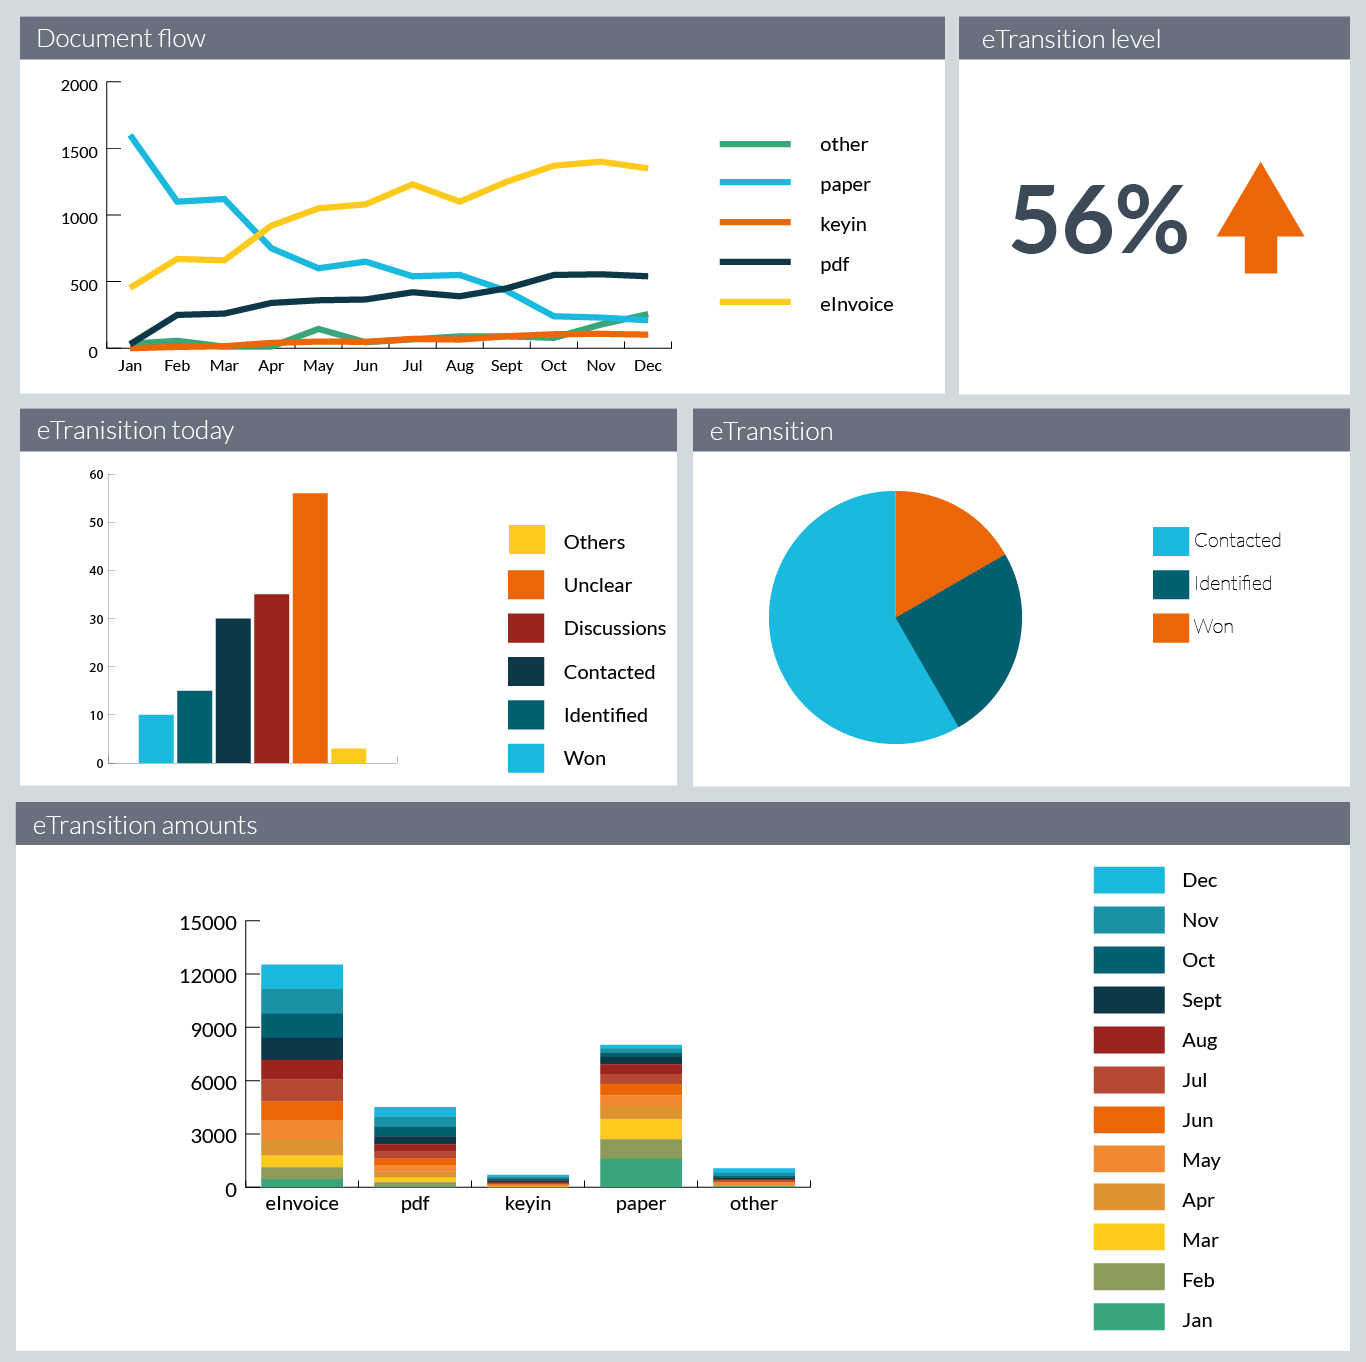
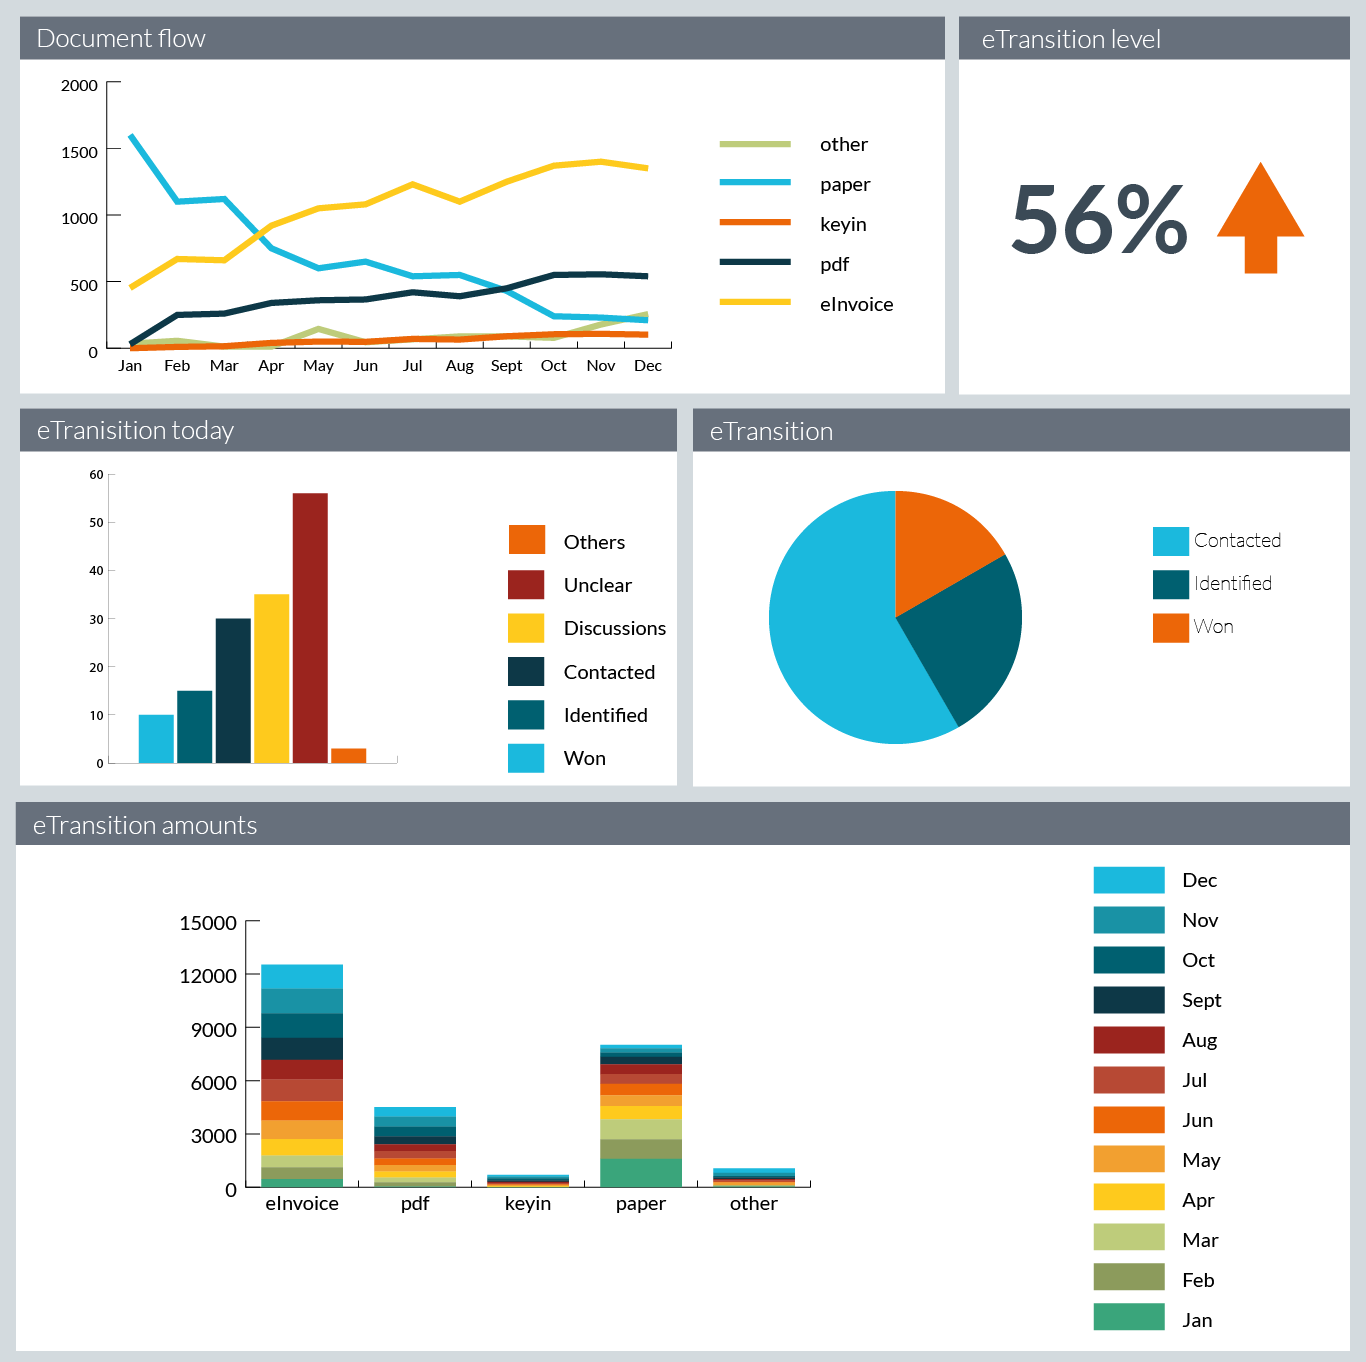
More color definitions added to Brand page.

diff --git a/ocui/brand.html b/ocui/brand.html
@@ -66,11 +66,19 @@
                         <!--Logo usage-->
                         <section>
                             <h2>OpusCapita Logo Usage</h2>
-                            	<p>White logo color is preferred when it is on top of the background color. If background are is white, the logo is displayed in orange. Logo may be used in minimized mode only in case there is no option to use the larger logo. </p>
+                            	<p>If background are is white, the logo is displayed in orange. White logo color is preferred when it is on top of the background color. Logo may be used in minimized mode only in case there is no option to use the larger logo. </p>
                             <h3>Logo</h3>
-                            <h3>Minimized logo</h3>
-                            <h3>Logo for favicon</h3>
+                            	<p>Logo in white background</p>
+								<img src="images/OC-logo-orange-extended.png" />
+                         		<p>Logo in colored background</p>
+								<img src="images/OC-logo-white-extended.png" />
+                          	<h3>Minimized logo</h3>
+                            	<img src="images/OC-logo-orange-minimised.png" />
                             <h3>Logo safety margins</h3>
+                            	<img src="images/OC-logo-safety-margins-orange-extended.png" /><br>
+                            	<img src="images/OC-logo-safety-margins-orange-minimised.png" />
+                            <h3>Logo for favicon</h3>
+                            	<img src="images/favicon.ico" />
                         </section>
                             
                         <!--Colors-->
@@ -82,12 +90,62 @@
                             <h3>Basic colors</h3>
                             	<h4>Main brand color</h4>
                             		<p>
-                                		The main brand color should be used thoughtfully.
+                                		The main brand color should not be used too much and preferable as a highlight color instead of in large elements.
+                                			<div class="oc-color-container">
+                                    		<div class="oc-circle" style="background-color: rgb(236, 102, 8);"></div>
+                            					<div class="oc-color-info">
+                                				<div class="oc-color-info-name">Orange</div>
+                                				<div class="oc-color-info-hex">#EC6608</div>
+                                				<div class="oc-color-info-rgb">R0 G96 B112</div>
+                            				</div>
+											</div>
                             		</p>
-                            	<h4>Navigation bar</h4>
-                            	<h4>Icons on .... background</h4>
-                            	<h4>Icons on white background</h4>
+                            	<h4>Navigation bar colors</h4>
+                            				<div class="oc-color-container">
+                                    		<div class="oc-circle" style="background-color: rgb(59, 74, 86);"></div>
+                            					<div class="oc-color-info">
+                                				<div class="oc-color-info-name">Dark steel</div>
+                                				<div class="oc-color-info-hex">#3B4A56</div>
+                                				<div class="oc-color-info-rgb">R59 G74 B86</div>
+                            				</div>
+											</div>
+                           	
+                           					<div class="oc-color-container">
+                                    		<div class="oc-circle" style="background-color: rgb(211, 218, 222);"></div>
+                            					<div class="oc-color-info">
+                                				<div class="oc-color-info-name">Light gray</div>
+                                				<div class="oc-color-info-hex">#D3DADE</div>
+                                				<div class="oc-color-info-rgb">R211 G218 B222</div>
+                            				</div>
+											</div>
+                            	<h4>Icons on Dark steel background</h4>
+                            				<div class="oc-color-container">
+                                    		<div class="oc-circle" style="background-color: rgb(211, 218, 222);"></div>
+                            					<div class="oc-color-info">
+                                				<div class="oc-color-info-name">Light gray</div>
+                                				<div class="oc-color-info-hex">#D3DADE</div>
+                                				<div class="oc-color-info-rgb">R211 G218 B222</div>
+                            				</div>
+											</div>
+                            	<h4>Icons on White or Light gray background</h4>
+                            				<div class="oc-color-container">
+                                    		<div class="oc-circle" style="background-color: rgb(103, 112, 124);"></div>
+                            					<div class="oc-color-info">
+                                				<div class="oc-color-info-name">Steel</div>
+                                				<div class="oc-color-info-hex">#67707C</div>
+                                				<div class="oc-color-info-rgb">R103 G112 B124</div>
+                            				</div>
+											</div>                            	
+                           
                             	<h4>Gray background</h4>
+                            				<div class="oc-color-container">
+                                    		<div class="oc-circle" style="background-color: rgb(211, 218, 222);"></div>
+                            					<div class="oc-color-info">
+                                				<div class="oc-color-info-name">Light gray</div>
+                                				<div class="oc-color-info-hex">#D3DADE</div>
+                                				<div class="oc-color-info-rgb">R211 G218 B222</div>
+                            				</div>
+											</div>
                             <h3>Colors in priority order for graphs with maximum of 5 colors.</h3>
                             
                             <div class="oc-colors-container">
@@ -128,11 +186,11 @@
 									</div>
                            
                            			<div class="oc-color-container">
-                                    	<div class="oc-circle" style="background-color: rgb(58, 165, 123);"></div>
+                                    	<div class="oc-circle" style="background-color: rgb(190, 204, 123);"></div>
                             			<div class="oc-color-info">
-                                			<div class="oc-color-info-name">Cyan</div>
-                                			<div class="oc-color-info-hex">#3AA57B</div>
-                                			<div class="oc-color-info-rgb">R58 G165 B123</div>
+                                			<div class="oc-color-info-name">Light green</div>
+                                			<div class="oc-color-info-hex">#BECC32</div>
+                                			<div class="oc-color-info-rgb">R190 G204 B123</div>
                             			</div>
 									</div>
                            
@@ -196,11 +254,11 @@
 									</div>
                           
                           			<div class="oc-color-container">
-                                    	<div class="oc-circle" style="background-color: rgb(140, 155, 92);"></div>
+                                    	<div class="oc-circle" style="background-color: rgb(190, 204, 123);"></div>
                             			<div class="oc-color-info">
-                                			<div class="oc-color-info-name">Olive</div>
-                                			<div class="oc-color-info-hex">#8C9B5C</div>
-                                			<div class="oc-color-info-rgb">R140 G155 B92</div>
+                                			<div class="oc-color-info-name">Light green</div>
+                                			<div class="oc-color-info-hex">#BECC7B</div>
+                                			<div class="oc-color-info-rgb">R190 G204 B123</div>
                             			</div>
 									</div>
                            
@@ -216,120 +274,131 @@
                             </div>
                             
                             <h3>Colors in priority order for graphs with maximum of 12 colors.</h3>
-                            <h3>Colors in graphs - example image.</h3>
-                            	<img src="images/graphColorsExample.png" />
-                            <h3>Primary colors for graphs</h3>
+                             <p>
+                                It is not recommended to include more than 12 elements to a graph in order to maintain readability.
+                            </p>
+                            
                             <div class="oc-colors-container">
                                 <div class="oc-color-container">
-                                    <div class="oc-circle" style="background-color: rgb(236, 102, 8);"></div>
-                            <div class="oc-color-info">
-                                <div class="oc-color-info-name">Orange</div>
-                                <div class="oc-color-info-hex">#EC6608</div>
-                                <div class="oc-color-info-rgb">R236 G102 B8</div>
+                                    <div class="oc-circle" style="background-color: rgb(27, 185, 221);"></div>
+                            		<div class="oc-color-info">
+                                		<div class="oc-color-info-name">Aqua</div>
+                                		<div class="oc-color-info-hex">#1BB9DD</div>
+                                		<div class="oc-color-info-rgb">R27 G185 B221</div>
+                            		</div>
+								</div>
+                         		
+                         	<div class="oc-color-container">
+                                  <div class="oc-circle" style="background-color: rgb(25, 146, 165);"></div>
+                            		<div class="oc-color-info">
+                                		<div class="oc-color-info-name">Teal</div>
+                                		<div class="oc-color-info-hex">#1992A5</div>
+                                		<div class="oc-color-info-rgb">R25 G146 B165</div>
+                            		</div>
+							</div>
+                          		
+                           		<div class="oc-color-container">
+                                    <div class="oc-circle" style="background-color: rgb(0, 96, 112);"></div>
+                            		<div class="oc-color-info">
+                                		<div class="oc-color-info-name">Petrol</div>
+                                		<div class="oc-color-info-hex">#006070</div>
+                                		<div class="oc-color-info-rgb">R0 G96 B112</div>
+                            		</div>
+								</div>
+                         		
+                         		<div class="oc-color-container">
+                                    <div class="oc-circle" style="background-color: rgb(13, 56, 71);"></div>
+                            		<div class="oc-color-info">
+                                		<div class="oc-color-info-name">Dark petrol</div>
+                                		<div class="oc-color-info-hex">#0D3847</div>
+                                		<div class="oc-color-info-rgb">R13 G56 B71</div>
+                            		</div>
+								</div>
+                         		
+                         		<div class="oc-color-container">
+                                    <div class="oc-circle" style="background-color: rgb(155, 36, 30);"></div>
+                            		<div class="oc-color-info">
+                                		<div class="oc-color-info-name">Dark red</div>
+                                		<div class="oc-color-info-hex">#9B241E</div>
+                                		<div class="oc-color-info-rgb">R155 G36 B30</div>
+                            		</div>
+								</div>
+                         		
+                         		<div class="oc-color-container">
+                                    <div class="oc-circle" style="background-color: rgb(183, 73, 52);"></div>
+                            		<div class="oc-color-info">
+                                		<div class="oc-color-info-name">Sienna</div>
+                                		<div class="oc-color-info-hex">#B74934</div>
+                                		<div class="oc-color-info-rgb">R183 G73 B52</div>
+                            		</div>
+								</div>
+                          		
+                           		<div class="oc-color-container">
+                                   	<div class="oc-circle" style="background-color: rgb(236, 102, 8);"></div>
+                            		<div class="oc-color-info">
+                                		<div class="oc-color-info-name">Orange</div>
+                               			<div class="oc-color-info-hex">#EC6608</div>
+                               			<div class="oc-color-info-rgb">R236 G102 B8</div>
+                           			</div>
+                           			
+								</div>
+                          
+                          			<div class="oc-color-container">
+                                   	<div class="oc-circle" style="background-color: rgb(242, 160, 48);"></div>
+                            		<div class="oc-color-info">
+                                		<div class="oc-color-info-name">Coral</div>
+                               			<div class="oc-color-info-hex">#F2A030</div>
+                               			<div class="oc-color-info-rgb">R242 G160 B48</div>
+                           			</div>
+								</div>
+                           
+                           			<div class="oc-color-container">
+                                    	<div class="oc-circle" style="background-color: rgb(254, 202, 29);"></div>
+                            			<div class="oc-color-info">
+                                			<div class="oc-color-info-name">Yellow</div>
+                                			<div class="oc-color-info-hex">#FECA1D</div>
+                                			<div class="oc-color-info-rgb">R254 G202 B29</div>
+                            			</div>
+									</div>
+                         
+                         			<div class="oc-color-container">
+                                    	<div class="oc-circle" style="background-color: rgb(190, 204, 123);"></div>
+                            			<div class="oc-color-info">
+                                			<div class="oc-color-info-name">Light green</div>
+                                			<div class="oc-color-info-hex">#BECC7B</div>
+                                			<div class="oc-color-info-rgb">R190 G204 B123</div>
+                            			</div>
+									</div>
+                          
+                          			<div class="oc-color-container">
+                                    	<div class="oc-circle" style="background-color: rgb(140, 155, 92);"></div>
+                            			<div class="oc-color-info">
+                                			<div class="oc-color-info-name">Olive</div>
+                                			<div class="oc-color-info-hex">#8C9B5C</div>
+                                			<div class="oc-color-info-rgb">R140 G155 B92</div>
+                            			</div>
+									</div>
+                           
+                          				<div class="oc-color-container">
+                                    	<div class="oc-circle" style="background-color: rgb(58, 165, 123);"></div>
+                            			<div class="oc-color-info">
+                                			<div class="oc-color-info-name">Cyan</div>
+                                			<div class="oc-color-info-hex">#8C9B5C</div>
+                                			<div class="oc-color-info-rgb">R58 G165 B123</div>
+                            			</div>
+									</div>
+                           			
+                           
                             </div>
-                            </div>
-                            <div class="oc-color-container">
-                                <div class="oc-circle" style="background-color: rgb(254, 202, 29);"></div>
-                            <div class="oc-color-info">
-                                <div class="oc-color-info-name">Yellow</div>
-                                <div class="oc-color-info-hex">#FECA1D</div>
-                                <div class="oc-color-info-rgb">R254 G202 B29</div>
-                            </div>
-                            </div>
-                            <div class="oc-color-container">
-                                <div class="oc-circle" style="background-color: rgb(103, 112, 124);"></div>
-                            <div class="oc-color-info">
-                                <div class="oc-color-info-name">Dark Gray</div>
-                                <div class="oc-color-info-hex">#67707C</div>
-                                <div class="oc-color-info-rgb">R103 G112 B124</div>
-                            </div>
-                            </div>
-                            <div class="oc-color-container">
-                                <div class="oc-circle" style="background-color: rgb(221, 37, 21);"></div>
-                            <div class="oc-color-info">
-                                <div class="oc-color-info-name">Red</div>
-                                <div class="oc-color-info-hex">#DD2515</div>
-                                <div class="oc-color-info-rgb">R221 G37 B21</div>
-                            </div>
-                            </div>
-                            <div class="oc-color-container">
-                                <div class="oc-circle" style="background-color: rgb(0, 0, 0);"></div>
-                            <div class="oc-color-info">
-                                <div class="oc-color-info-name">Black</div>
-                                <div class="oc-color-info-hex">#000000</div>
-                                <div class="oc-color-info-rgb">R0 G0 B0</div>
-                            </div>
-                            </div>
-                            <div class="oc-color-container">
-                                <div class="oc-circle" style="background-color: rgb(0, 96, 112);"></div>
-                            <div class="oc-color-info">
-                                <div class="oc-color-info-name">Petrol</div>
-                                <div class="oc-color-info-hex">#006070</div>
-                                <div class="oc-color-info-rgb">R0 G96 B112</div>
-                            </div>
-                            </div>
-                            </div>
-
-                            <h3>Additional colors</h3>
-                            <div class="oc-colors-container">
-                            <div class="oc-color-container">
-                                <div class="oc-circle" style="background-color: rgb(59, 74, 86);"></div>
-                            <div class="oc-color-info">
-                                <div class="oc-color-info-name">Dark Steel</div>
-                                <div class="oc-color-info-hex">#3B4A56</div>
-                                <div class="oc-color-info-rgb">R59 G74 B86</div>
-                            </div>
-                            </div>
-                            <div class="oc-color-container">
-                                <div class="oc-circle" style="background-color: rgb(204, 204, 204);"></div>
-                            <div class="oc-color-info">
-                                <div class="oc-color-info-name">Gray</div>
-                                <div class="oc-color-info-hex">#CCCCCC</div>
-                                <div class="oc-color-info-rgb">R204 G204 B204</div>
-                            </div>
-                            </div>
-                            <div class="oc-color-container">
-                                <div class="oc-circle" style="background-color: rgb(211, 218, 222);"></div>
-                            <div class="oc-color-info">
-                                <div class="oc-color-info-name">Light Gray</div>
-                                <div class="oc-color-info-hex">#D3DADE</div>
-                                <div class="oc-color-info-rgb">R211 G218 B222</div>
-                            </div>
-                            </div>
-                            <div class="oc-color-container">
-                                <div class="oc-circle" style="background-color: rgb(58, 165, 123);"></div>
-                            <div class="oc-color-info">
-                                <div class="oc-color-info-name">Green</div>
-                                <div class="oc-color-info-hex">#3AA57B</div>
-                                <div class="oc-color-info-rgb">R58 G165 B123</div>
-                            </div>
-                            </div>
-                            <div class="oc-color-container">
-                                <div class="oc-circle" style="background-color: rgb(22, 174, 214);"></div>
-                            <div class="oc-color-info">
-                                <div class="oc-color-info-name">Blue</div>
-                                <div class="oc-color-info-hex">#16AED6</div>
-                                <div class="oc-color-info-rgb">R22 G174 B214</div>
-                            </div>
-                            </div>
-                            <div class="oc-color-container">
-                                <div class="oc-circle" style="background-color: rgb(148, 59, 163);"></div>
-                            <div class="oc-color-info">
-                                <div class="oc-color-info-name">Violet</div>
-                                <div class="oc-color-info-hex">#943BA3</div>
-                                <div class="oc-color-info-rgb">R148 G59 B163</div>
-                            </div>
-                            </div>
-                        </div>
+                            
+                            <h3>Colors in graphs - example image.</h3>
+                            	<img src="images/graphColorsExample.png" />
+                            
                         </section>
                        
 
                        
-
-                         <!--OpusCapita logo usage-->
-                        <section></section>
-
-                                                
+                                               
                         <!--Typography-->
                         <section>
                         <h2>Typography</h2>
